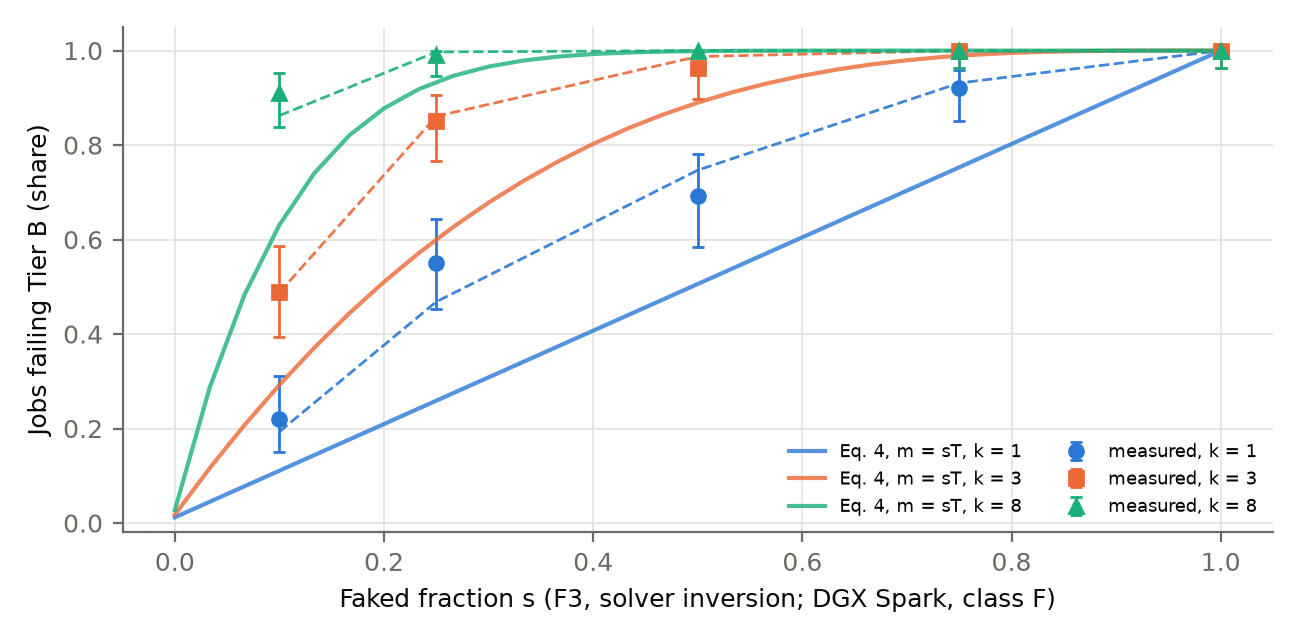
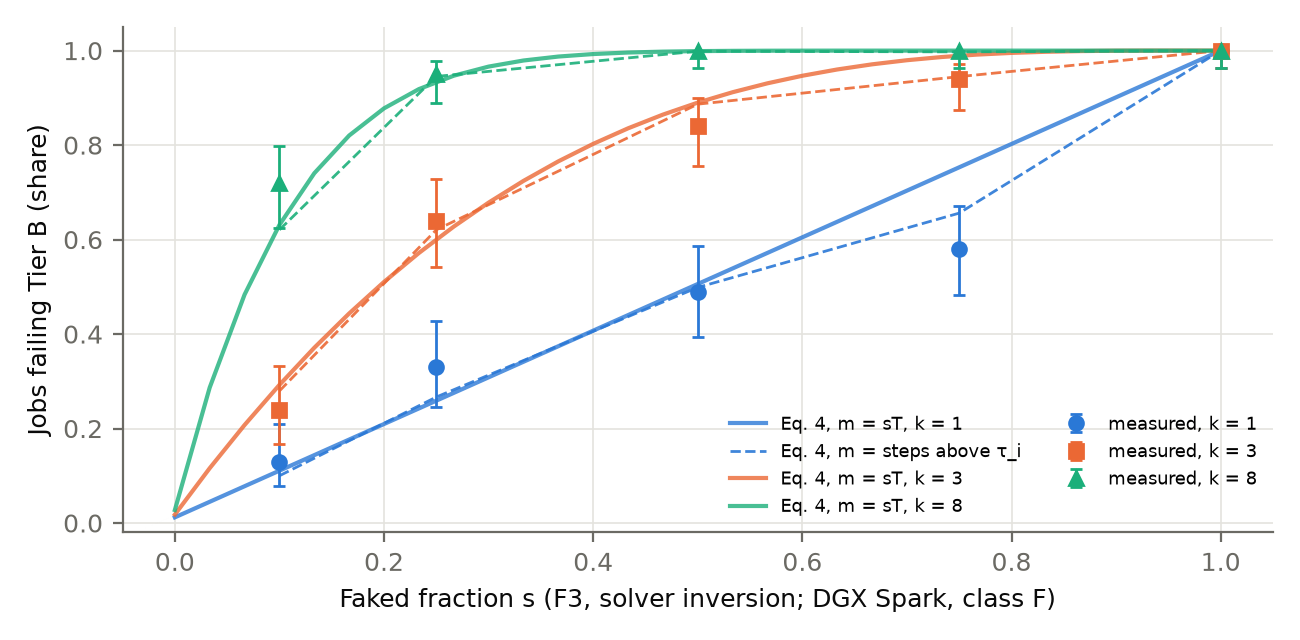
Figure 5: complete sweep; legend entry for Equation 4 with m = steps above tau_i

diff --git a/paper/tools/figures_results.py b/paper/tools/figures_results.py
@@ -94,7 +94,8 @@ def fig_partial():
                 alpha=0.8, label=f"Eq. 4, m = sT, k = {k}")
         # Eq. 4 with the measured detectable steps of each job (steps over tau), averaged over the jobs of each s
         ax.plot(s, [statistics.mean(theory.q_spot_check(30, m, k, 1.0, 0.0) for m in r["n_over_tau"]) for r in rk],
-                color=C[i], linewidth=1, linestyle="--", alpha=0.9)
+                color=C[i], linewidth=1, linestyle="--", alpha=0.9,
+                label="Eq. 4, m = steps above τ_i" if i == 0 else None)
     ax.set_xlabel("Faked fraction s (F3, solver inversion; DGX Spark, class F)")
     ax.set_ylabel("Jobs failing Tier B (share)")
     ax.set_ylim(-0.02, 1.05)
